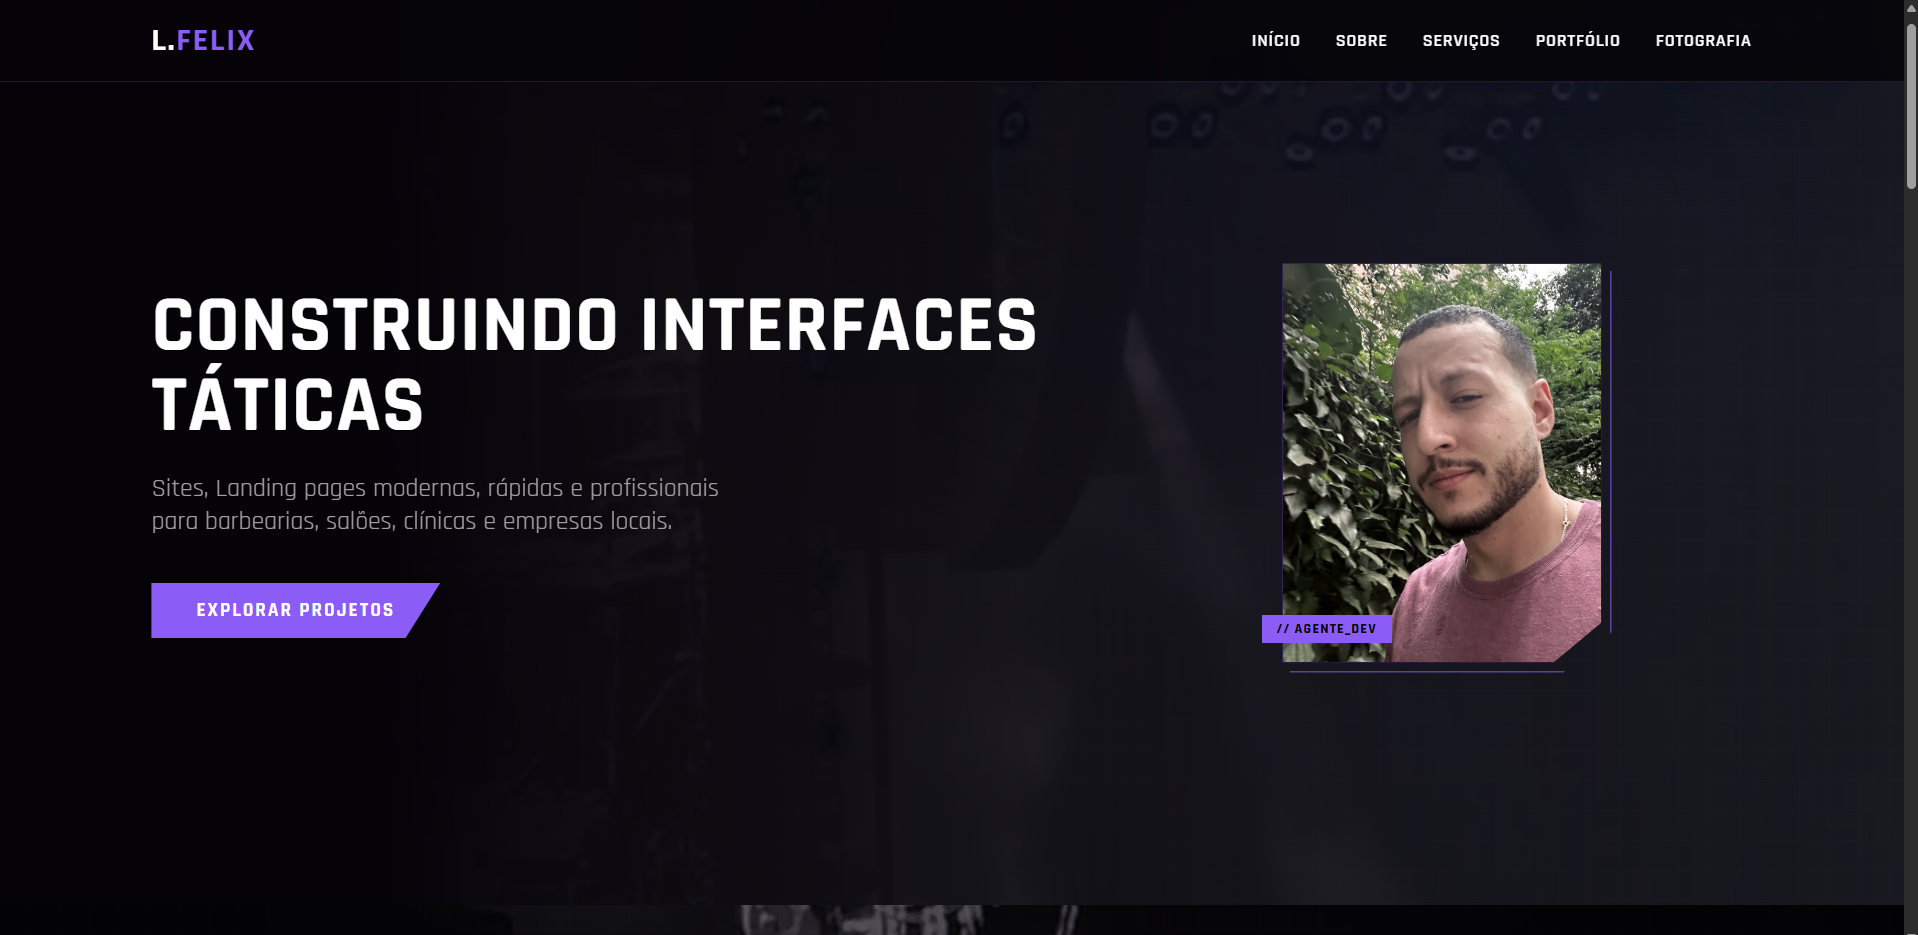
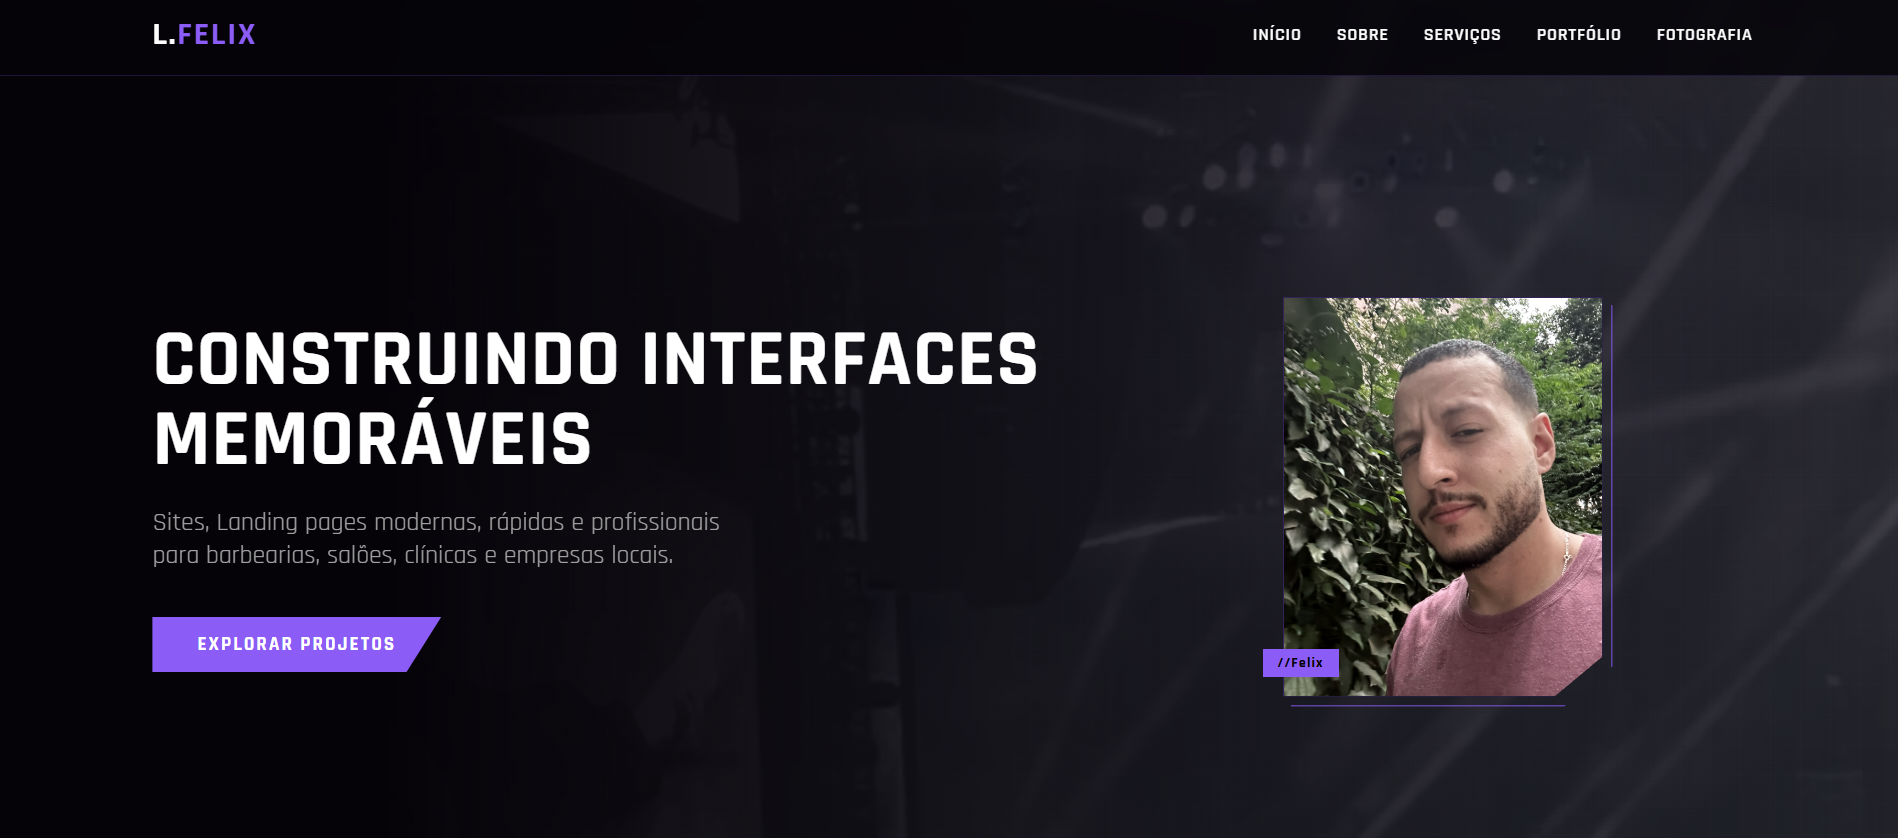
Versão 1.4 do meu site

diff --git a/Index.html b/Index.html
@@ -10,9 +10,9 @@
     
     <meta name="keywords" content="web design, landing pages, criador de sites, audiovisual, desenvolvedor front-end, São Paulo, alta conversão">
     <meta name="author" content="Leonardo Felix Faria">
-    <meta name="robots" content="index, follow"> <meta property="og:title" content="Leonardo Felix | Agente Dev & Audiovisual">
+    <meta name="robots" content="index, follow"> <meta property="og:title" content="Leonardo Felix | Desenvolvedor Web & Audiovisual">
     <meta property="og:description" content="Sites profissionais que valorizam a marca e ajudam sua empresa a conquistar mais clientes.">
-    <meta property="og:image" content="https://felixfaria.com/img/preview-site.jpg">
+    <meta property="og:image" content="https://felixfaria.com/img/preview-site.png">
     <meta property="og:url" content="https://felixfaria.com/">
     <meta property="og:type" content="website">
 